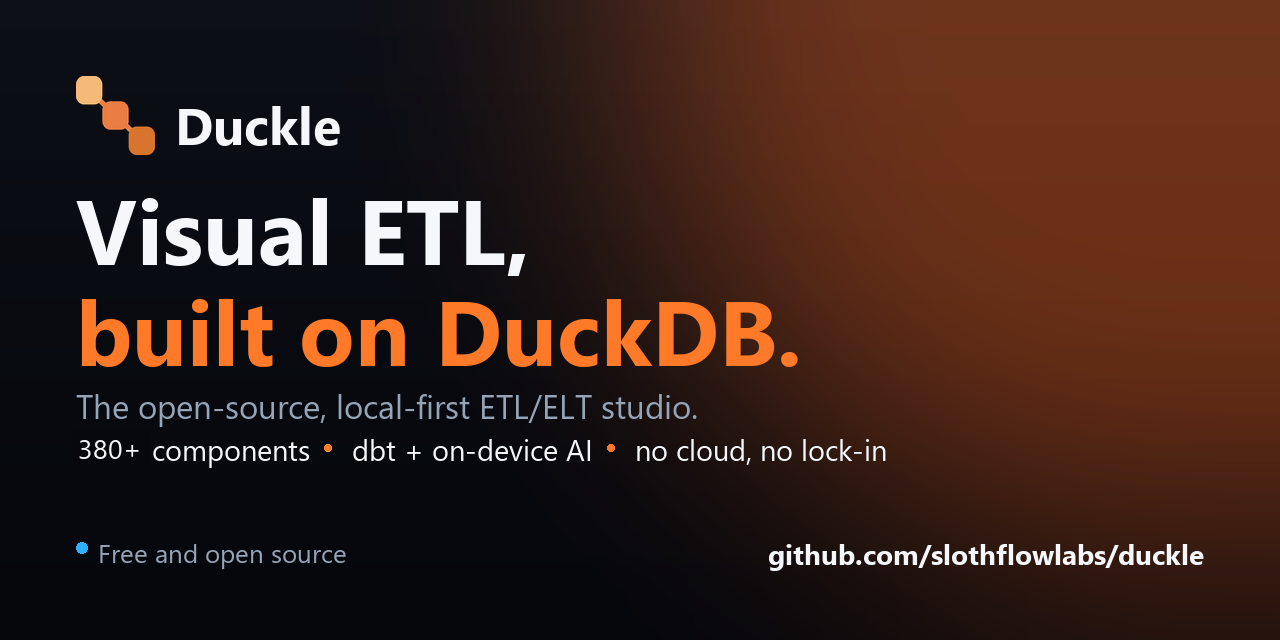
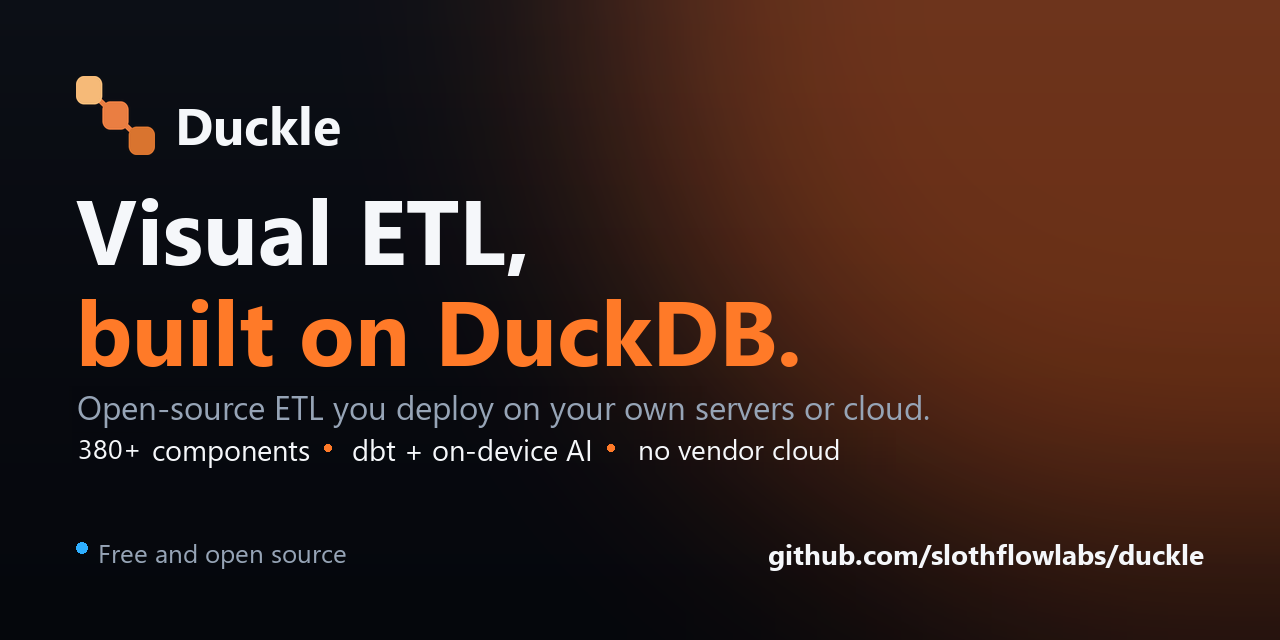
docs: state the positioning as deploy to your servers or cloud
The line was "Author locally, deploy to your servers", which reintroduced the
laptop framing the positioning exists to remove, and named servers only when
deploying into an AWS, Azure or Google Cloud account you own is the same act.
It now reads "Pipelines you own. Author and deploy to your servers or cloud",
in the README and on the site.

The homepage hero already carried the deploy line, but the copy underneath had
not moved: four FAQ answers described Duckle as a desktop application with "no
server", "no external warehouse, no server, and no account required" and running
"fully offline", which reads as a tool that cannot be deployed. The questions are
kept, because they carry the search traffic, and the answers now land on
authoring and deploying to infrastructure the reader owns.

llms.txt and llms-full.txt are what assistants quote, and both opened with
"local-first ETL/ELT studio ... No cloud, no server". Rewritten to lead with
deployment, and the key facts now include the console, roles, audit trail, and
the 39.9s Postgres to Parquet measurement.

The distinction throughout is vendor cloud, not cloud. Duckle deploys to Docker,
EC2, ECS, EKS, Azure and Google Cloud, and saying "no cloud" denied that.

Both preview cards said "local-first ETL/ELT studio" and "no cloud, no lock-in".
The docs learn page still counted 363 components.

Changed region(s): [[0.0625, 0.5938, 0.7188, 0.6562], [0.5, 0.6875, 0.6875, 0.7188]]

diff --git a/website/index.html b/website/index.html
@@ -3,11 +3,11 @@
 <head>
 <meta charset="utf-8" />
 <meta name="viewport" content="width=device-width, initial-scale=1" />
-<title>Duckle - Open-source ETL you run on your own servers, built on DuckDB</title>
-<meta name="description" content="Open-source ETL on your own servers. Author on your laptop, deploy headless on a schedule in Docker or a box you own. No vendor cloud, no per-row billing." />
+<title>Duckle - Open-source ETL you deploy on your own servers or cloud, built on DuckDB</title>
+<meta name="description" content="Open-source ETL you deploy on your own servers or cloud. Author on a canvas, in Python or in SQL, then run it headless on a schedule in Docker, on EC2 or on Kubernetes. No vendor cloud, no per-row billing." />
 <meta name="keywords" content="visual ETL tool, DuckDB ETL, open source ETL, ELT tool, code-first ETL, Python ETL, ETL for AI agents, MCP ETL, data pipeline builder, dbt GUI, dbt on DuckDB, DuckLake, Quack DuckDB, no-code data pipeline, Fivetran alternative, Airbyte alternative, Talend alternative, dlt alternative, self-hosted ETL, local-first ETL" />
-<meta property="og:title" content="Duckle - Open-source ETL you run on your own servers" />
-<meta property="og:description" content="Open-source ETL you deploy on your own servers. Author on your laptop, run headless on a schedule in Docker or on your own box. 96M rows Postgres to Parquet in 39.9s. No vendor cloud, no per-row billing." />
+<meta property="og:title" content="Duckle - Open-source ETL you deploy on your own servers or cloud" />
+<meta property="og:description" content="Open-source ETL you deploy on your own infrastructure. Author on a canvas, in Python or in SQL, then run it headless on a schedule in Docker, on EC2 or on Kubernetes. 96M rows Postgres to Parquet in 39.9s. No vendor cloud, no per-row billing." />
 <meta property="og:image" content="https://duckle.org/assets/img/og-card.png" />
 <meta property="og:image:width" content="1200" />
 <meta property="og:image:height" content="630" />
@@ -16,8 +16,8 @@
 <meta property="og:site_name" content="Duckle" />
 <meta name="twitter:card" content="summary_large_image" />
 <meta name="twitter:url" content="https://duckle.org/" />
-<meta name="twitter:title" content="Duckle - Open-source ETL you run on your own servers" />
-<meta name="twitter:description" content="Open-source ETL you deploy on your own servers. Author on your laptop, run headless on a schedule in Docker or on your own box. 96M rows Postgres to Parquet in 39.9s. No vendor cloud, no per-row billing." />
+<meta name="twitter:title" content="Duckle - Open-source ETL you deploy on your own servers or cloud" />
+<meta name="twitter:description" content="Open-source ETL you deploy on your own infrastructure. Author on a canvas, in Python or in SQL, then run it headless on a schedule in Docker, on EC2 or on Kubernetes. 96M rows Postgres to Parquet in 39.9s. No vendor cloud, no per-row billing." />
 <meta name="twitter:image" content="https://duckle.org/assets/img/og-card.png" />
 <meta name="robots" content="index, follow" />
 <meta name="author" content="Duckle" />
@@ -94,20 +94,20 @@
   "mainEntity": [
     { "@type": "Question", "name": "Is Duckle free?", "acceptedAnswer": { "@type": "Answer", "text": "Yes. Duckle is open source under MIT or Apache-2.0. There is no per-row, per-connector, or per-seat billing, and nothing to self-host or operate." } },
     { "@type": "Question", "name": "What engine does Duckle run on?", "acceptedAnswer": { "@type": "Answer", "text": "Duckle runs on DuckDB, an embedded columnar engine. Visual pipelines compile to SQL and execute locally at native DuckDB speed, with no external warehouse or server in the loop." } },
-    { "@type": "Question", "name": "Does Duckle need the cloud or a server?", "acceptedAnswer": { "@type": "Answer", "text": "No. Duckle runs anywhere you point it - your laptop, CI, or a server - and fully offline when you want, on the embedded DuckDB engine. There is no account and no telemetry, which makes it suitable for air-gapped and compliance-sensitive work. It reads from and writes to cloud systems when you need to; it just does not require them." } },
+    { "@type": "Question", "name": "Does Duckle need the cloud or a server?", "acceptedAnswer": { "@type": "Answer", "text": "It needs no vendor cloud and no account. Where it runs is yours to choose: author on a canvas, in Python or in SQL, then deploy the same file to a server or a cloud account you control, where duckle-runner serve runs it headless on a schedule with a web console, roles and an audit trail. Docker, EC2, ECS, EKS, Azure and Google Cloud are documented, and there is no telemetry at either end. It reads from and writes to cloud systems whenever you want; it just never hands your data to somebody else's platform." } },
     { "@type": "Question", "name": "How many components does Duckle have?", "acceptedAnswer": { "@type": "Answer", "text": "Duckle ships 385 components, 367 available today, spanning sources, transforms, sinks, data-quality checks, control-flow nodes, and code runners for databases, warehouses, lakehouses, object storage, streaming, NoSQL, and SaaS APIs." } },
     { "@type": "Question", "name": "Can Duckle run dbt?", "acceptedAnswer": { "@type": "Answer", "text": "Yes. Duckle runs dbt on DuckDB with a visual GUI, using a fast build engine by default and falling back to dbt-core when needed, so you can build, test, and schedule dbt projects without leaving the studio." } },
     { "@type": "Question", "name": "Does Duckle have an AI assistant?", "acceptedAnswer": { "@type": "Answer", "text": "Yes. Duckie is an on-device AI assistant that generates pipelines from plain English with no API key and no telemetry. Duckle also ships an MCP server so external AI agents can list, generate, validate, and run pipelines." } },
     { "@type": "Question", "name": "Is there an open-source alternative to Fivetran or Airbyte?", "acceptedAnswer": { "@type": "Answer", "text": "Duckle is a free, open-source ETL/ELT tool that covers similar ground to hosted platforms like Fivetran and Airbyte, but runs locally. It moves data across 190 sources and destinations with no per-row, per-connector, or per-seat billing and nothing to host or operate. Pipelines are built visually or from plain English and compile to readable DuckDB SQL." } },
-    { "@type": "Question", "name": "Can I run ETL pipelines without the cloud or a data warehouse?", "acceptedAnswer": { "@type": "Answer", "text": "Yes. Duckle executes on the embedded DuckDB engine, so there is no external warehouse, no server, and no account required. It runs fully offline, which suits air-gapped, on-premise, and compliance-sensitive work, and it still reads from and writes to cloud systems whenever you want." } },
-    { "@type": "Question", "name": "What is a local-first ETL tool?", "acceptedAnswer": { "@type": "Answer", "text": "A local-first ETL tool builds and runs data pipelines on your own machine rather than in a hosted cloud service, so data never leaves your control. Duckle is an open, single-engine example: write a pipeline in Python, wire it from connectors, or draw it on a canvas, and run it fully offline on DuckDB - or in CI, headless, or a browser when you want." } },
+    { "@type": "Question", "name": "Can I run ETL pipelines without the cloud or a data warehouse?", "acceptedAnswer": { "@type": "Answer", "text": "Yes. Duckle compiles pipelines to SQL and runs them on DuckDB, so there is no external warehouse to buy and no per-row bill. Deploy them to a server or cloud account you own and duckle-runner serve schedules them headless on hardware you provision, using every core you give it, so a bigger instance is a faster pipeline. It suits air-gapped, on-premise and compliance-sensitive work, and it still reads from and writes to cloud systems whenever you want." } },
+    { "@type": "Question", "name": "What is a local-first ETL tool?", "acceptedAnswer": { "@type": "Answer", "text": "A local-first ETL tool builds and runs pipelines on infrastructure you control rather than on a vendor's platform, so your data stays in your custody. Duckle applies that to production rather than only to the desktop: author on a canvas, in Python or in SQL, then deploy the same file to your own server or cloud account, where it runs headless on a schedule with a web console, roles and an audit trail. Every pipeline is one file in git, so it outlives whoever wrote it." } },
     { "@type": "Question", "name": "How is Duckle different from Airbyte and dbt?", "acceptedAnswer": { "@type": "Answer", "text": "Airbyte focuses on hosted extract-and-load connectors and dbt focuses on SQL transformation. Duckle is one open engine that does extract, transform, and load together - write it in Python, wire it from connectors, or draw it on a canvas - and it runs dbt on DuckDB inside the same tool. One format, one engine, deployed on your own infrastructure rather than a vendor's, with no per-row billing." } }
   ,
-    { "@type": "Question", "name": "What is the best open-source ETL tool?", "acceptedAnswer": { "@type": "Answer", "text": "There is no single best one; the honest answer depends on where the work runs. Airbyte and Meltano suit server-hosted extract and load. Apache Airflow orchestrates jobs rather than transforming data. dbt transforms data already inside a warehouse. Duckle is the option when you want the pipeline to run on your own machine with no server: it covers extract, transform and load in one artifact, compiles to readable DuckDB SQL, and can run dbt models itself. It is free and dual-licensed MIT OR Apache-2.0, with no per-row or per-seat billing." } },
+    { "@type": "Question", "name": "What is the best open-source ETL tool?", "acceptedAnswer": { "@type": "Answer", "text": "There is no single best one; the honest answer depends on where the work runs. Airbyte and Meltano suit server-hosted extract and load. Apache Airflow orchestrates jobs rather than transforming data. dbt transforms data already inside a warehouse. Duckle is the option when you want the pipeline running on infrastructure you own: it covers extract, transform and load in one artifact, compiles to readable DuckDB SQL, and can run dbt models itself. It is free and dual-licensed MIT OR Apache-2.0, with no per-row or per-seat billing." } },
     { "@type": "Question", "name": "What replaced Talend Open Studio after it was discontinued?", "acceptedAnswer": { "@type": "Answer", "text": "Talend Open Studio reached end of life on 31 January 2024 and its free downloads were withdrawn, so teams still running it need a migration path. Duckle covers the same ground for the visual-pipeline user: a canvas of sources, transforms and destinations, a tMap-style visual mapper for joins and expression mapping, control-flow nodes for branching and iteration, and scheduled or headless execution. The differences are that pipelines compile to readable SQL on DuckDB rather than generated Java, the whole thing is one desktop binary with no Studio install, and it is free under MIT OR Apache-2.0." } },
     { "@type": "Question", "name": "Can I run ETL without writing code?", "acceptedAnswer": { "@type": "Answer", "text": "Yes. Duckle pipelines are built by dragging sources, transforms and destinations onto a canvas and wiring them together, with no code required for the common cases. You can also describe what you want in plain English to the built-in on-device assistant. Nothing is hidden: every node shows the SQL it compiles to, so a low-code pipeline and a hand-written one produce the same artifact and you can drop into SQL or Python for the parts that need it." } },
     { "@type": "Question", "name": "What is the fastest way to extract an Oracle table to Parquet?", "acceptedAnswer": { "@type": "Answer", "text": "Read the rows into Arrow and write Parquet directly, rather than converting each value to text and parsing it back. Duckle's Oracle source does this: on a 1,466,723-row, 236-column table it completes in about 65 seconds, against about 68.6 seconds for python-oracledb with pyarrow doing the same job on the same machine and writing the same SNAPPY Parquet. Enabling Write directly from the source on the Parquet sink removes a second encode pass. Columns declared as a bare NUMBER are measured before the write so they get exact DECIMAL types rather than a lossy DOUBLE." } },
-    { "@type": "Question", "name": "Is there a self-hosted alternative to Fivetran that runs on my laptop?", "acceptedAnswer": { "@type": "Answer", "text": "Yes. Duckle is a desktop application that runs pipelines locally with no server, no account and no telemetry, which suits air-gapped and compliance-sensitive work. It reads from and writes to cloud systems when you want it to, but never requires one. The same pipeline file also runs headless through the duckle-runner CLI on a server or in CI, so moving from a laptop to scheduled production does not mean rewriting it." } },
+    { "@type": "Question", "name": "Is there a self-hosted alternative to Fivetran that runs on my laptop?", "acceptedAnswer": { "@type": "Answer", "text": "Yes, and it does not stop there. Author the pipeline on your own machine, then deploy the same file to infrastructure you own: duckle-runner serve runs it headless on a schedule in Docker, on EC2 or on Kubernetes, with a web console, roles and an audit trail. Going from authoring to scheduled production is a deploy, not a rewrite. No vendor cloud and no per-row billing at either end, which suits on-premise and compliance-sensitive work." } },
     { "@type": "Question", "name": "Does Duckle send my data anywhere?", "acceptedAnswer": { "@type": "Answer", "text": "No. Pipelines execute in-process on DuckDB on your own machine. There is no account, no telemetry and no phone-home, and the application runs fully offline. The built-in AI assistant runs a local model on your device and needs no API key, so describing a pipeline in plain English does not send your schema or data to a third party. Data leaves your machine only when a pipeline you built explicitly writes to a remote destination." } }
   ]
 }
@@ -198,8 +198,8 @@
   <div class="wrap">
     <div class="hero-grid">
       <div>
-        <h1>Pipelines you own.<br />Author locally, deploy to your servers.</h1>
-        <p class="lead">Duckle is an open-source ETL platform for teams who want their pipelines running on their own infrastructure. Author on your laptop with a canvas, Python or SQL, then ship the same file to a server: <code>duckle-runner serve</code> runs it headless on a schedule, in Docker or on a box you own, with a web console, roles and an audit trail. Every pipeline is one file in git, so it outlives whoever wrote it. It runs on EC2, EKS or a box you own and uses every core you give it, so a bigger instance is a faster pipeline: <b>96 million rows out of Postgres to Parquet in 39.9s</b>. No vendor cloud, no per-row billing, no lock-in.</p>
+        <h1>Pipelines you own.<br />Author and deploy to your servers or cloud.</h1>
+        <p class="lead">Duckle is an open-source ETL platform for teams who want their pipelines running on their own infrastructure. Author on a canvas, in Python or in SQL, then ship the same file to your own server or cloud account: <code>duckle-runner serve</code> runs it headless on a schedule, in Docker or on a box you own, with a web console, roles and an audit trail. Every pipeline is one file in git, so it outlives whoever wrote it. It runs on EC2, EKS or a box you own and uses every core you give it, so a bigger instance is a faster pipeline: <b>96 million rows out of Postgres to Parquet in 39.9s</b>. No vendor cloud, no per-row billing, no lock-in.</p>
         <div class="hero-cta">
           <a class="btn btn-primary btn-pill btn-lg" href="#download">Download Duckle</a>
           <a class="btn btn-outline btn-lg" href="https://github.com/slothflowlabs/duckle" target="_blank" rel="noopener">
@@ -461,7 +461,7 @@
         </details>
         <details class="faq-item">
           <summary><h3>Does Duckle need the cloud or a server?</h3></summary>
-          <p>No. Duckle runs anywhere you point it - your laptop, CI, or a server - and fully offline when you want, on the embedded DuckDB engine. There is no account and no telemetry, which makes it suitable for air-gapped and compliance-sensitive work. It reads from and writes to cloud systems when you need to; it just does not require them.</p>
+          <p>It needs no vendor cloud and no account. Where it runs is yours to choose: author on a canvas, in Python or in SQL, then deploy the same file to a server or a cloud account you control, where duckle-runner serve runs it headless on a schedule with a web console, roles and an audit trail. Docker, EC2, ECS, EKS, Azure and Google Cloud are documented, and there is no telemetry at either end. It reads from and writes to cloud systems whenever you want; it just never hands your data to somebody else's platform.</p>
         </details>
         <details class="faq-item">
           <summary><h3>How many components does Duckle have?</h3></summary>
@@ -481,11 +481,11 @@
         </details>
         <details class="faq-item">
           <summary><h3>Can I run ETL pipelines without the cloud or a data warehouse?</h3></summary>
-          <p>Yes. Duckle executes on the embedded DuckDB engine, so there is no external warehouse, no server, and no account required. It runs fully offline, which suits air-gapped, on-premise, and compliance-sensitive work, and it still reads from and writes to cloud systems whenever you want.</p>
+          <p>Yes. Duckle compiles pipelines to SQL and runs them on DuckDB, so there is no external warehouse to buy and no per-row bill. Deploy them to a server or cloud account you own and duckle-runner serve schedules them headless on hardware you provision, using every core you give it, so a bigger instance is a faster pipeline. It suits air-gapped, on-premise and compliance-sensitive work, and it still reads from and writes to cloud systems whenever you want.</p>
         </details>
         <details class="faq-item">
           <summary><h3>What is a local-first ETL tool?</h3></summary>
-          <p>A local-first ETL tool builds and runs data pipelines on your own machine rather than in a hosted cloud service, so data never leaves your control. Duckle is an open, single-engine example: write a pipeline in Python, wire it from connectors, or draw it on a canvas, and run it fully offline on DuckDB - or in CI, headless, or a browser when you want.</p>
+          <p>A local-first ETL tool builds and runs pipelines on infrastructure you control rather than on a vendor's platform, so your data stays in your custody. Duckle applies that to production rather than only to the desktop: author on a canvas, in Python or in SQL, then deploy the same file to your own server or cloud account, where it runs headless on a schedule with a web console, roles and an audit trail. Every pipeline is one file in git, so it outlives whoever wrote it.</p>
         </details>
         <details class="faq-item">
           <summary><h3>How is Duckle different from Airbyte and dbt?</h3></summary>
@@ -493,7 +493,7 @@
         </details>
         <details class="faq-item">
           <summary><h3>What is the best open-source ETL tool?</h3></summary>
-          <p>There is no single best one; the honest answer depends on where the work runs. Airbyte and Meltano suit server-hosted extract and load. Apache Airflow orchestrates jobs rather than transforming data. dbt transforms data already inside a warehouse. Duckle is the option when you want the pipeline to run on your own machine with no server: it covers extract, transform and load in one artifact, compiles to readable DuckDB SQL, and can run dbt models itself. It is free and dual-licensed MIT OR Apache-2.0, with no per-row or per-seat billing.</p>
+          <p>There is no single best one; the honest answer depends on where the work runs. Airbyte and Meltano suit server-hosted extract and load. Apache Airflow orchestrates jobs rather than transforming data. dbt transforms data already inside a warehouse. Duckle is the option when you want the pipeline running on infrastructure you own: it covers extract, transform and load in one artifact, compiles to readable DuckDB SQL, and can run dbt models itself. It is free and dual-licensed MIT OR Apache-2.0, with no per-row or per-seat billing.</p>
         </details>
         <details class="faq-item">
           <summary><h3>What replaced Talend Open Studio after it was discontinued?</h3></summary>
@@ -509,7 +509,7 @@
         </details>
         <details class="faq-item">
           <summary><h3>Is there a self-hosted alternative to Fivetran that runs on my laptop?</h3></summary>
-          <p>Yes. Duckle is a desktop application that runs pipelines locally with no server, no account and no telemetry, which suits air-gapped and compliance-sensitive work. It reads from and writes to cloud systems when you want it to, but never requires one. The same pipeline file also runs headless through the duckle-runner CLI on a server or in CI, so moving from a laptop to scheduled production does not mean rewriting it.</p>
+          <p>Yes, and it does not stop there. Author the pipeline on your own machine, then deploy the same file to infrastructure you own: duckle-runner serve runs it headless on a schedule in Docker, on EC2 or on Kubernetes, with a web console, roles and an audit trail. Going from authoring to scheduled production is a deploy, not a rewrite. No vendor cloud and no per-row billing at either end, which suits on-premise and compliance-sensitive work.</p>
         </details>
         <details class="faq-item">
           <summary><h3>Does Duckle send my data anywhere?</h3></summary>
@@ -565,7 +565,7 @@
           <img class="logo-dark" src="assets/img/duckle-mark.v4.svg" alt="" />
           <span class="bw"><span class="bn">Duckle</span><span class="by">by SlothFlowLabs</span></span>
         </a>
-        <p class="muted" style="max-width:30ch;">Open-source ETL you run on your own servers. Author locally, deploy anywhere. Built on DuckDB.</p>
+        <p class="muted" style="max-width:30ch;">Open-source ETL you run on your own servers or cloud. Author, deploy anywhere. Built on DuckDB.</p>
       </div>
       <div><h4>Product</h4><a href="#product">Visual canvas</a><a href="#duckie">Duckie AI</a><a href="docs/components.html">Components</a><a href="#download">Download</a></div>
       <div><h4>Solutions</h4><a href="use-cases.html#join">Cross-system joins</a><a href="use-cases.html#snowflake">Warehouse savings</a><a href="use-cases.html#cdc">Change data capture</a><a href="use-cases.html#ai">Data prep for AI</a></div>

diff --git a/website/docs/components.html b/website/docs/components.html
@@ -17,16 +17,16 @@
 <meta property="og:site_name" content="Duckle" />
 <meta property="og:url" content="https://duckle.org/docs/components.html" />
 <meta property="og:title" content="Component reference - Duckle" />
-<meta property="og:description" content="The Duckle component reference: 363 sources, transforms, sinks, quality checks and control-flow nodes. Every pipeline node compiles to readable SQL on DuckDB." />
+<meta property="og:description" content="The Duckle component reference: 385 sources, transforms, sinks, quality checks and control-flow nodes. Every pipeline node compiles to readable SQL on DuckDB." />
 <meta property="og:image" content="https://duckle.org/assets/img/og-card.png" />
 <meta property="og:image:width" content="1200" />
 <meta property="og:image:height" content="630" />
 <meta name="twitter:card" content="summary_large_image" />
 <meta name="twitter:url" content="https://duckle.org/docs/components.html" />
 <meta name="twitter:title" content="Component reference - Duckle" />
-<meta name="twitter:description" content="The Duckle component reference: 363 sources, transforms, sinks, quality checks and control-flow nodes. Every pipeline node compiles to readable SQL on DuckDB." />
+<meta name="twitter:description" content="The Duckle component reference: 385 sources, transforms, sinks, quality checks and control-flow nodes. Every pipeline node compiles to readable SQL on DuckDB." />
 <meta name="twitter:image" content="https://duckle.org/assets/img/og-card.png" />
-<meta name="description" content="The Duckle component reference: 363 sources, transforms, sinks, quality checks and control-flow nodes. Every pipeline node compiles to readable SQL on DuckDB." />
+<meta name="description" content="The Duckle component reference: 385 sources, transforms, sinks, quality checks and control-flow nodes. Every pipeline node compiles to readable SQL on DuckDB." />
 <meta name="keywords" content="visual ETL tool, DuckDB ETL, open source ETL, ELT tool, code-first ETL, Python ETL, ETL for AI agents, MCP ETL, data pipeline builder, dbt GUI, dbt on DuckDB, DuckLake, Quack DuckDB, no-code data pipeline, Fivetran alternative, Airbyte alternative, Talend alternative, dlt alternative, self-hosted ETL, local-first ETL" />
 <meta name="theme-color" content="#07090f" />
 <link rel="apple-touch-icon" href="../assets/img/duckle-mark.v4.svg" />
@@ -61,8 +61,8 @@
 {
   "@context": "https://schema.org",
   "@type": "TechArticle",
-  "headline": "Duckle components reference: 363 sources, transforms, sinks and data-quality nodes",
-  "description": "The Duckle component reference: 363 sources, transforms, sinks, quality checks and control-flow nodes. Every pipeline node compiles to readable SQL on DuckDB.",
+  "headline": "Duckle components reference: 385 sources, transforms, sinks and data-quality nodes",
+  "description": "The Duckle component reference: 385 sources, transforms, sinks, quality checks and control-flow nodes. Every pipeline node compiles to readable SQL on DuckDB.",
   "author": {
     "@type": "Organization",
     "name": "SlothFlow Labs"

diff --git a/website/docs/learn.html b/website/docs/learn.html
@@ -4,7 +4,7 @@
 <meta charset="utf-8" />
 <meta name="viewport" content="width=device-width, initial-scale=1" />
 <title>Learn ETL, ELT and CDC on DuckDB - Duckle</title>
-<meta name="description" content="Learn ETL, ELT and CDC on DuckDB with Duckle: local-first concepts, hands-on guides, and a reference to all 363 pipeline components." />
+<meta name="description" content="Learn ETL, ELT and CDC on DuckDB with Duckle: core concepts, hands-on guides, and a reference to all 385 pipeline components." />
 <meta name="keywords" content="visual ETL tool, DuckDB ETL, open source ETL, ELT tool, code-first ETL, Python ETL, ETL for AI agents, MCP ETL, data pipeline builder, dbt GUI, dbt on DuckDB, DuckLake, Quack DuckDB, no-code data pipeline, Fivetran alternative, Airbyte alternative, Talend alternative, dlt alternative, self-hosted ETL, local-first ETL" />
 <link rel="icon" href="../assets/img/duckle-mark.v4.svg" />
 <link rel="preconnect" href="https://fonts.googleapis.com" />
@@ -19,14 +19,14 @@
 <meta property="og:site_name" content="Duckle" />
 <meta property="og:url" content="https://duckle.org/docs/learn.html" />
 <meta property="og:title" content="Learn ETL, ELT and CDC on DuckDB - Duckle" />
-<meta property="og:description" content="Learn ETL, ELT and CDC on DuckDB with Duckle: local-first concepts, hands-on guides, and a reference to all 363 pipeline components." />
+<meta property="og:description" content="Learn ETL, ELT and CDC on DuckDB with Duckle: core concepts, hands-on guides, and a reference to all 385 pipeline components." />
 <meta property="og:image" content="https://duckle.org/assets/img/og-card.png" />
 <meta property="og:image:width" content="1200" />
 <meta property="og:image:height" content="630" />
 <meta name="twitter:card" content="summary_large_image" />
 <meta name="twitter:url" content="https://duckle.org/docs/learn.html" />
 <meta name="twitter:title" content="Learn ETL, ELT and CDC on DuckDB - Duckle" />
-<meta name="twitter:description" content="Learn ETL, ELT and CDC on DuckDB with Duckle: local-first concepts, hands-on guides, and a reference to all 363 pipeline components." />
+<meta name="twitter:description" content="Learn ETL, ELT and CDC on DuckDB with Duckle: core concepts, hands-on guides, and a reference to all 385 pipeline components." />
 <meta name="twitter:image" content="https://duckle.org/assets/img/og-card.png" />
 <meta name="theme-color" content="#07090f" />
 <link rel="apple-touch-icon" href="../assets/img/duckle-mark.v4.svg" />
@@ -62,7 +62,7 @@
   "@context": "https://schema.org",
   "@type": "TechArticle",
   "headline": "Learn ETL, ELT and CDC on DuckDB with Duckle",
-  "description": "Learn ETL, ELT and CDC on DuckDB with Duckle: local-first concepts, hands-on guides, and a reference to all 363 pipeline components.",
+  "description": "Learn ETL, ELT and CDC on DuckDB with Duckle: core concepts, hands-on guides, and a reference to all 385 pipeline components.",
   "author": {
     "@type": "Organization",
     "name": "SlothFlow Labs"

diff --git a/website/docs/integrations.html b/website/docs/integrations.html
@@ -4,7 +4,7 @@
 <meta charset="utf-8" />
 <meta name="viewport" content="width=device-width, initial-scale=1" />
 <title>Integrations directory - Duckle</title>
-<meta name="description" content="Browse every Duckle connector across databases, warehouses, lakehouses, object storage, streaming, NoSQL, vector DBs and SaaS APIs, all local-first on DuckDB." />
+<meta name="description" content="Browse every Duckle connector across databases, warehouses, lakehouses, object storage, streaming, NoSQL, vector DBs and SaaS APIs, all on DuckDB, on infrastructure you own." />
 <meta name="keywords" content="visual ETL tool, DuckDB ETL, open source ETL, ELT tool, code-first ETL, Python ETL, ETL for AI agents, MCP ETL, data pipeline builder, dbt GUI, dbt on DuckDB, DuckLake, Quack DuckDB, no-code data pipeline, Fivetran alternative, Airbyte alternative, Talend alternative, dlt alternative, self-hosted ETL, local-first ETL" />
 <link rel="icon" href="../assets/img/duckle-mark.v4.svg" />
 <link rel="preconnect" href="https://fonts.googleapis.com" />
@@ -19,14 +19,14 @@
 <meta property="og:site_name" content="Duckle" />
 <meta property="og:url" content="https://duckle.org/docs/integrations.html" />
 <meta property="og:title" content="Integrations directory - Duckle" />
-<meta property="og:description" content="Browse every Duckle connector across databases, warehouses, lakehouses, object storage, streaming, NoSQL, vector DBs and SaaS APIs, all local-first on DuckDB." />
+<meta property="og:description" content="Browse every Duckle connector across databases, warehouses, lakehouses, object storage, streaming, NoSQL, vector DBs and SaaS APIs, all on DuckDB, on infrastructure you own." />
 <meta property="og:image" content="https://duckle.org/assets/img/og-card.png" />
 <meta property="og:image:width" content="1200" />
 <meta property="og:image:height" content="630" />
 <meta name="twitter:card" content="summary_large_image" />
 <meta name="twitter:url" content="https://duckle.org/docs/integrations.html" />
 <meta name="twitter:title" content="Integrations directory - Duckle" />
-<meta name="twitter:description" content="Browse every Duckle connector across databases, warehouses, lakehouses, object storage, streaming, NoSQL, vector DBs and SaaS APIs, all local-first on DuckDB." />
+<meta name="twitter:description" content="Browse every Duckle connector across databases, warehouses, lakehouses, object storage, streaming, NoSQL, vector DBs and SaaS APIs, all on DuckDB, on infrastructure you own." />
 <meta name="twitter:image" content="https://duckle.org/assets/img/og-card.png" />
 <meta name="theme-color" content="#07090f" />
 <link rel="apple-touch-icon" href="../assets/img/duckle-mark.v4.svg" />

diff --git a/website/docs/index.html b/website/docs/index.html
@@ -4,7 +4,7 @@
 <meta charset="utf-8" />
 <meta name="viewport" content="width=device-width, initial-scale=1" />
 <title>Duckle Documentation: open, single-engine DuckDB ETL</title>
-<meta name="description" content="Duckle documentation: getting started, the 363-component reference, integrations, the Duckie AI assistant, scheduling, the MCP server, and server deployment." />
+<meta name="description" content="Duckle documentation: getting started, the 385-component reference, integrations, the Duckie AI assistant, scheduling, the MCP server, and server deployment." />
 <meta name="keywords" content="visual ETL tool, DuckDB ETL, open source ETL, ELT tool, code-first ETL, Python ETL, ETL for AI agents, MCP ETL, data pipeline builder, dbt GUI, dbt on DuckDB, DuckLake, Quack DuckDB, no-code data pipeline, Fivetran alternative, Airbyte alternative, Talend alternative, dlt alternative, self-hosted ETL, local-first ETL" />
 <link rel="icon" href="../assets/img/duckle-mark.v4.svg" />
 <link rel="preconnect" href="https://fonts.googleapis.com" />
@@ -19,14 +19,14 @@
 <meta property="og:site_name" content="Duckle" />
 <meta property="og:url" content="https://duckle.org/docs/index.html" />
 <meta property="og:title" content="Duckle Documentation: open, single-engine DuckDB ETL" />
-<meta property="og:description" content="Duckle documentation: getting started, the 363-component reference, integrations, the Duckie AI assistant, scheduling, the MCP server, and server deployment." />
+<meta property="og:description" content="Duckle documentation: getting started, the 385-component reference, integrations, the Duckie AI assistant, scheduling, the MCP server, and server deployment." />
 <meta property="og:image" content="https://duckle.org/assets/img/og-card.png" />
 <meta property="og:image:width" content="1200" />
 <meta property="og:image:height" content="630" />
 <meta name="twitter:card" content="summary_large_image" />
 <meta name="twitter:url" content="https://duckle.org/docs/index.html" />
 <meta name="twitter:title" content="Duckle Documentation: open, single-engine DuckDB ETL" />
-<meta name="twitter:description" content="Duckle documentation: getting started, the 363-component reference, integrations, the Duckie AI assistant, scheduling, the MCP server, and server deployment." />
+<meta name="twitter:description" content="Duckle documentation: getting started, the 385-component reference, integrations, the Duckie AI assistant, scheduling, the MCP server, and server deployment." />
 <meta name="twitter:image" content="https://duckle.org/assets/img/og-card.png" />
 <meta name="theme-color" content="#07090f" />
 <link rel="apple-touch-icon" href="../assets/img/duckle-mark.v4.svg" />

diff --git a/website/404.html b/website/404.html
@@ -34,7 +34,7 @@
     <a class="brand" href="/"><img src="/assets/img/duckle-mark.v4.svg" alt="Duckle"><span>Duckle</span></a>
     <p class="code">404</p>
     <h1>This page could not be found</h1>
-    <p>The page you were looking for does not exist or has moved. Duckle is an open-source, local-first ETL/ELT studio built on DuckDB.</p>
+    <p>The page you were looking for does not exist or has moved. Duckle is an open-source ETL/ELT platform built on DuckDB, deployed on your own servers or cloud.</p>
     <div class="row">
       <a class="btn primary" href="/">Back to home</a>
       <a class="btn ghost" href="/docs/index.html">Documentation</a>

diff --git a/website/docs/getting-started.html b/website/docs/getting-started.html
@@ -61,7 +61,7 @@
 {
   "@context": "https://schema.org",
   "@type": "TechArticle",
-  "headline": "Getting started with Duckle: install and build your first local-first pipeline",
+  "headline": "Getting started with Duckle: install and build your first pipeline",
   "description": "Install Duckle and build your first pipeline on DuckDB in minutes. Download the single binary for Windows, macOS or Linux. No installer, no account, no telemetry.",
   "author": {
     "@type": "Organization",

diff --git a/README.md b/README.md
@@ -2,9 +2,9 @@
 
 <img src="docs/assets/duckle-readme.png" alt="Duckle" width="460"/>
 
-<h3>Pipelines you own. Author locally, deploy to your servers.</h3>
+<h3>Pipelines you own. Author and deploy to your servers or cloud.</h3>
 
-<p><b>Duckle</b> is an open-source ETL platform for teams who want their pipelines running on their own infrastructure. Author on your laptop with a canvas, Python or SQL, then ship the same file to a server: <code>duckle-runner serve</code> runs it headless on a schedule, in Docker or on a box you own, with a web console, roles and an audit trail. Every pipeline is one file in git, so it outlives whoever wrote it. It compiles to SQL on DuckDB and uses every core you give the box, so a bigger instance is a faster pipeline: <b>96 million rows out of Postgres to Parquet in 39.9s</b>. <b>No vendor cloud. No per-row billing. No lock-in.</b></p>
+<p><b>Duckle</b> is an open-source ETL platform for teams who want their pipelines running on their own infrastructure. Author on a canvas, in Python or in SQL, then ship the same file to your own server or cloud account: <code>duckle-runner serve</code> runs it headless on a schedule, in Docker or on a box you own, with a web console, roles and an audit trail. Every pipeline is one file in git, so it outlives whoever wrote it. It compiles to SQL on DuckDB and uses every core you give the box, so a bigger instance is a faster pipeline: <b>96 million rows out of Postgres to Parquet in 39.9s</b>. <b>No vendor cloud. No per-row billing. No lock-in.</b></p>
 
 <a href="https://duckle.org/"><img src="website/assets/img/website-hero.gif" alt="Duckle connecting 190 sources and destinations - databases, warehouses, SaaS apps and the DuckDB ecosystem - all running locally on DuckDB" width="600"/></a>
 
